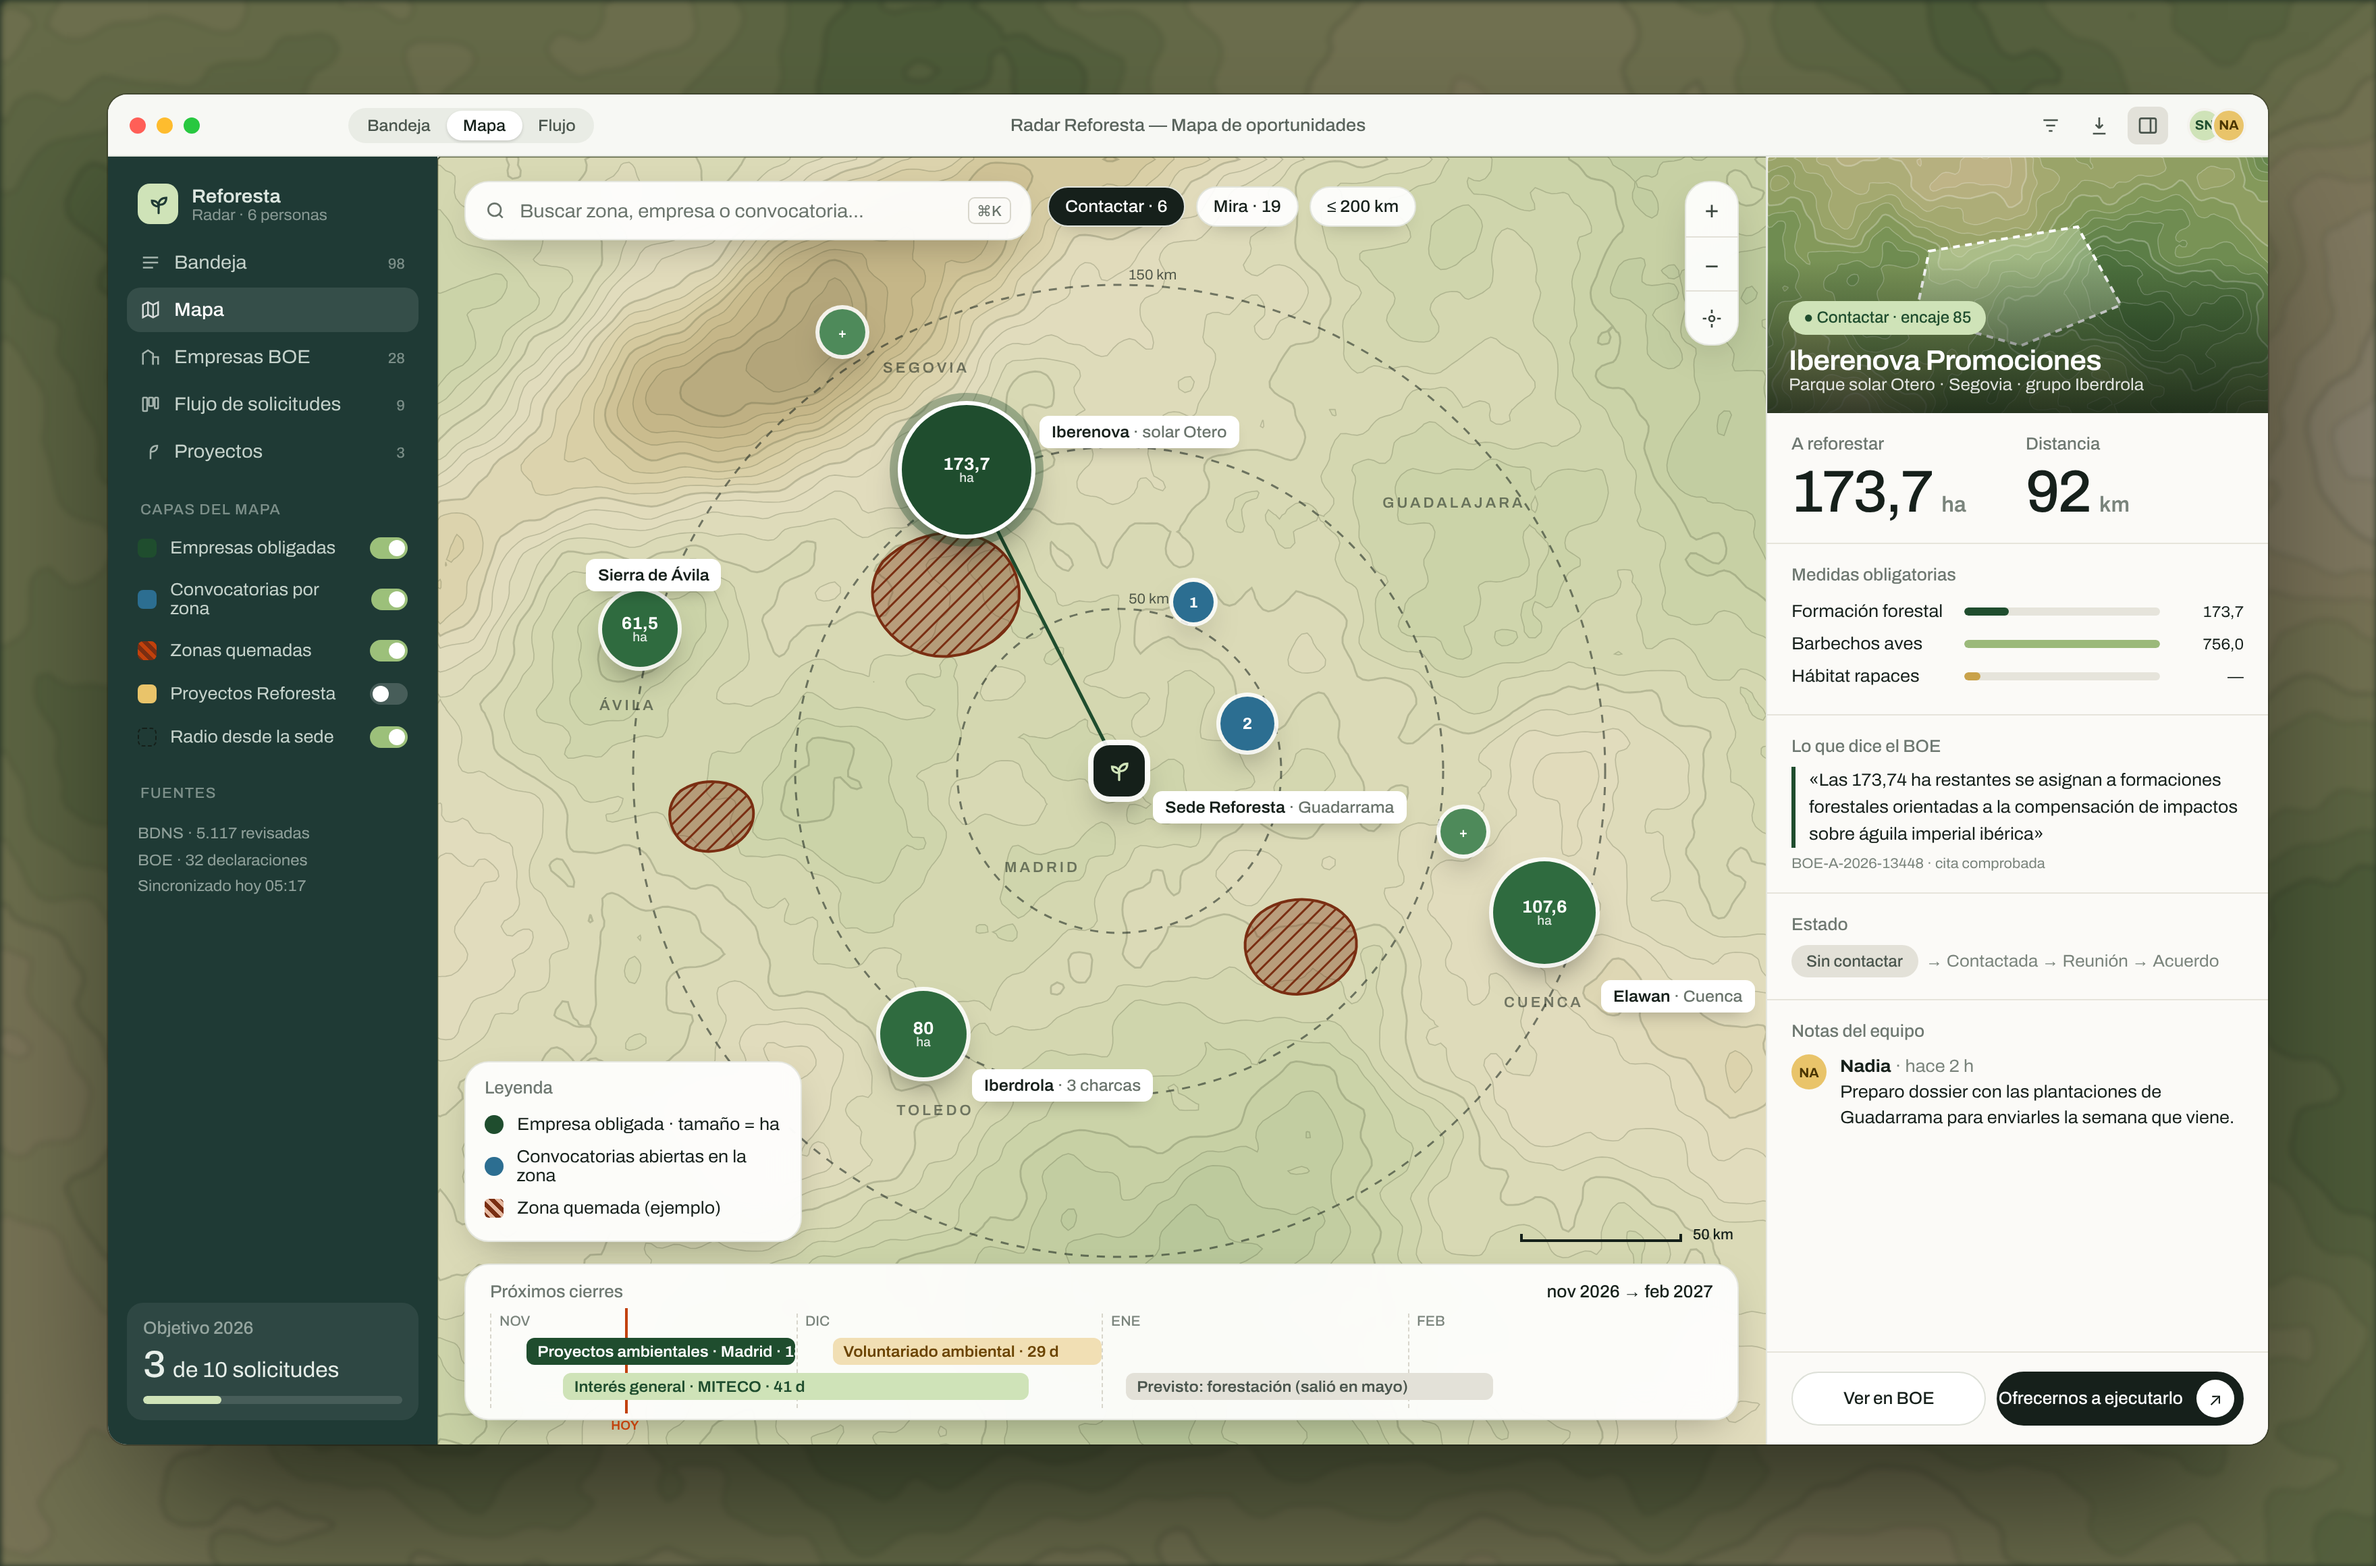
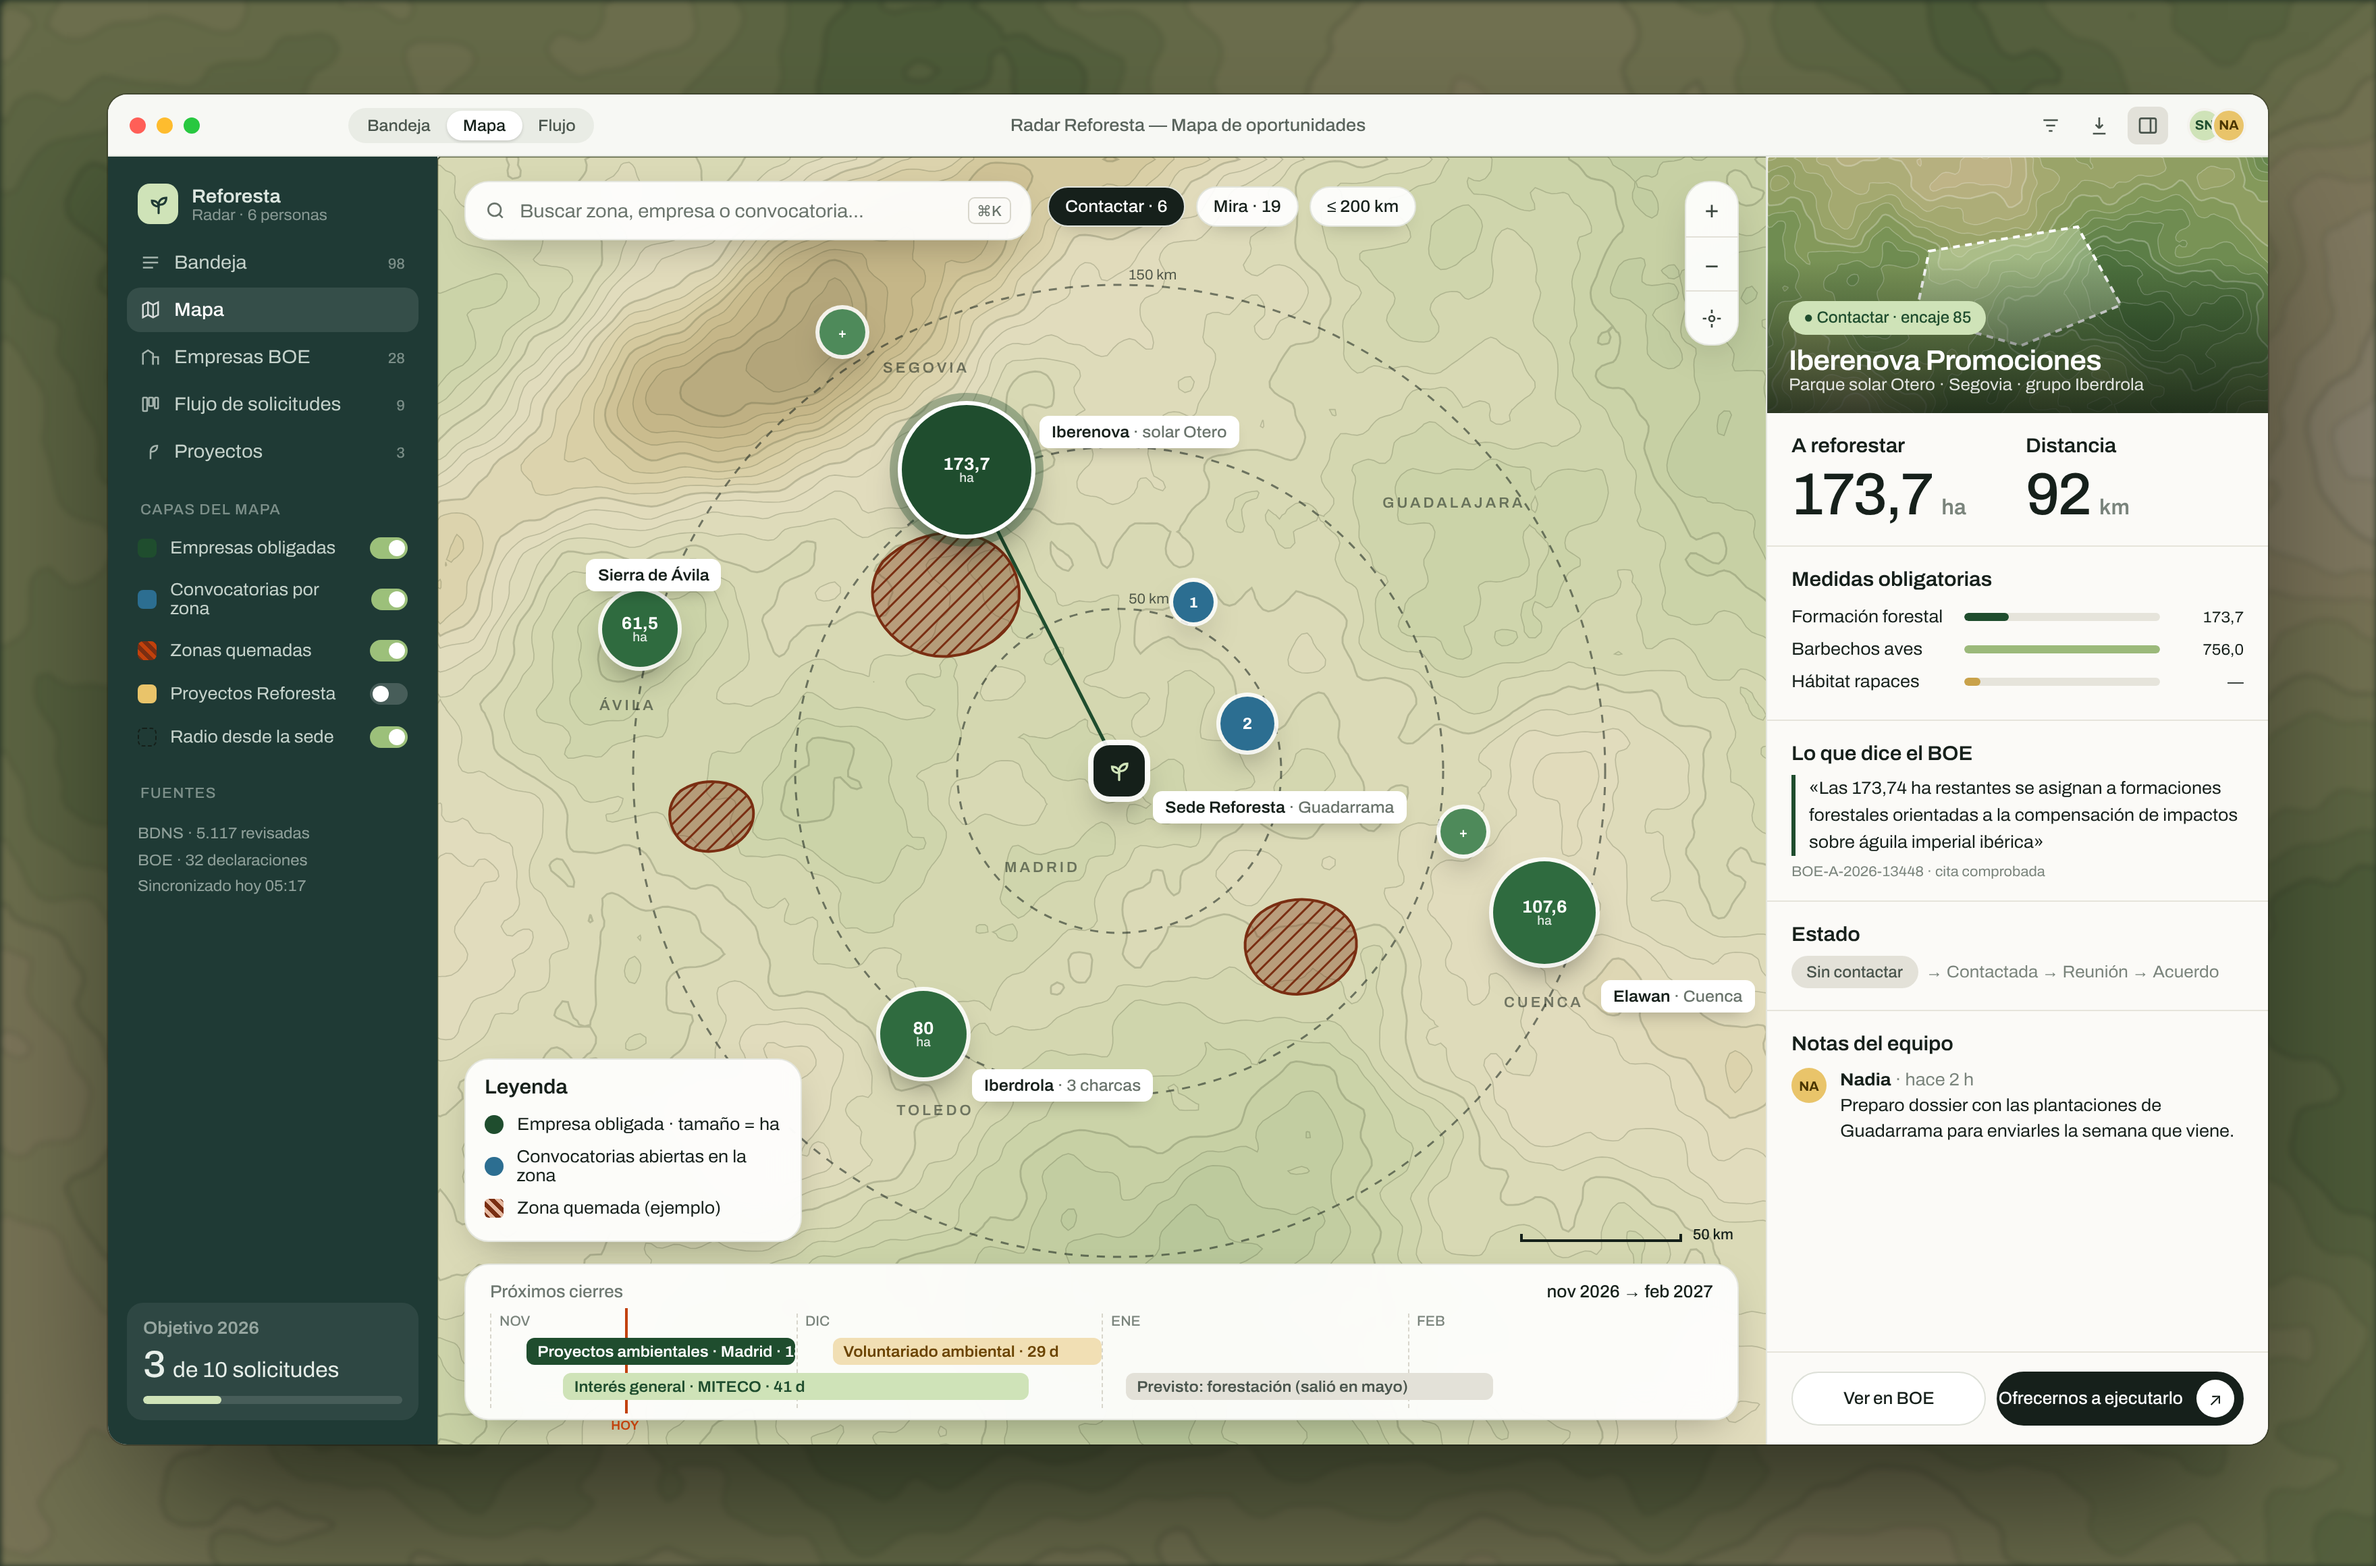
Prototipos: títulos de bloque visibles
Claude-Session: https://claude.ai/code/session_012gZcx8pYrYaYRtrnjVJ3cN

diff --git a/prototipos/app/fuente/theme.css b/prototipos/app/fuente/theme.css
@@ -70,3 +70,7 @@ h1,h2,h3,h4{font-weight:500 !important;font-stretch:108%}
 .f label{font:500 13px "Archivo" !important;text-transform:none !important;letter-spacing:0 !important;color:#6E7871 !important}
 .side .mb{background:rgba(255,255,255,.12) !important}.side .mb i{background:#CFE3B8 !important}
 .big span{letter-spacing:0;margin-left:4px}
+/* Títulos de bloque visibles (estilo Tink) */
+.k,.lbl,.f label{font:600 15px "Archivo" !important;font-stretch:104% !important;color:#16201B;letter-spacing:-.005em !important}
+.f label{color:#16201B !important;font-size:13.5px !important}
+.side .k{font-size:13px !important}
